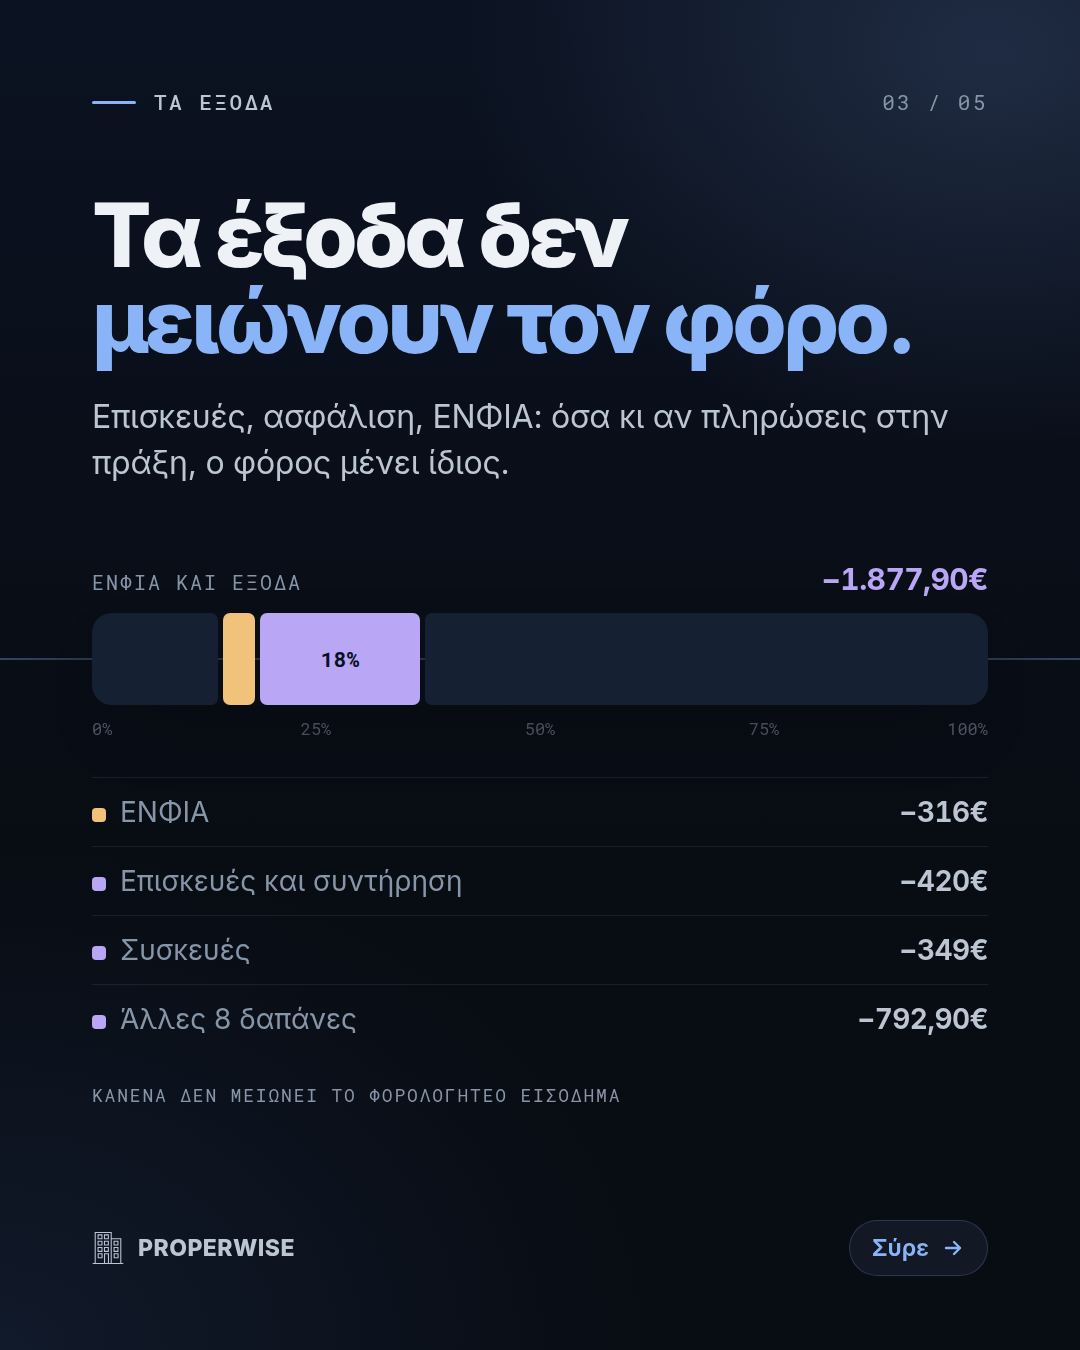
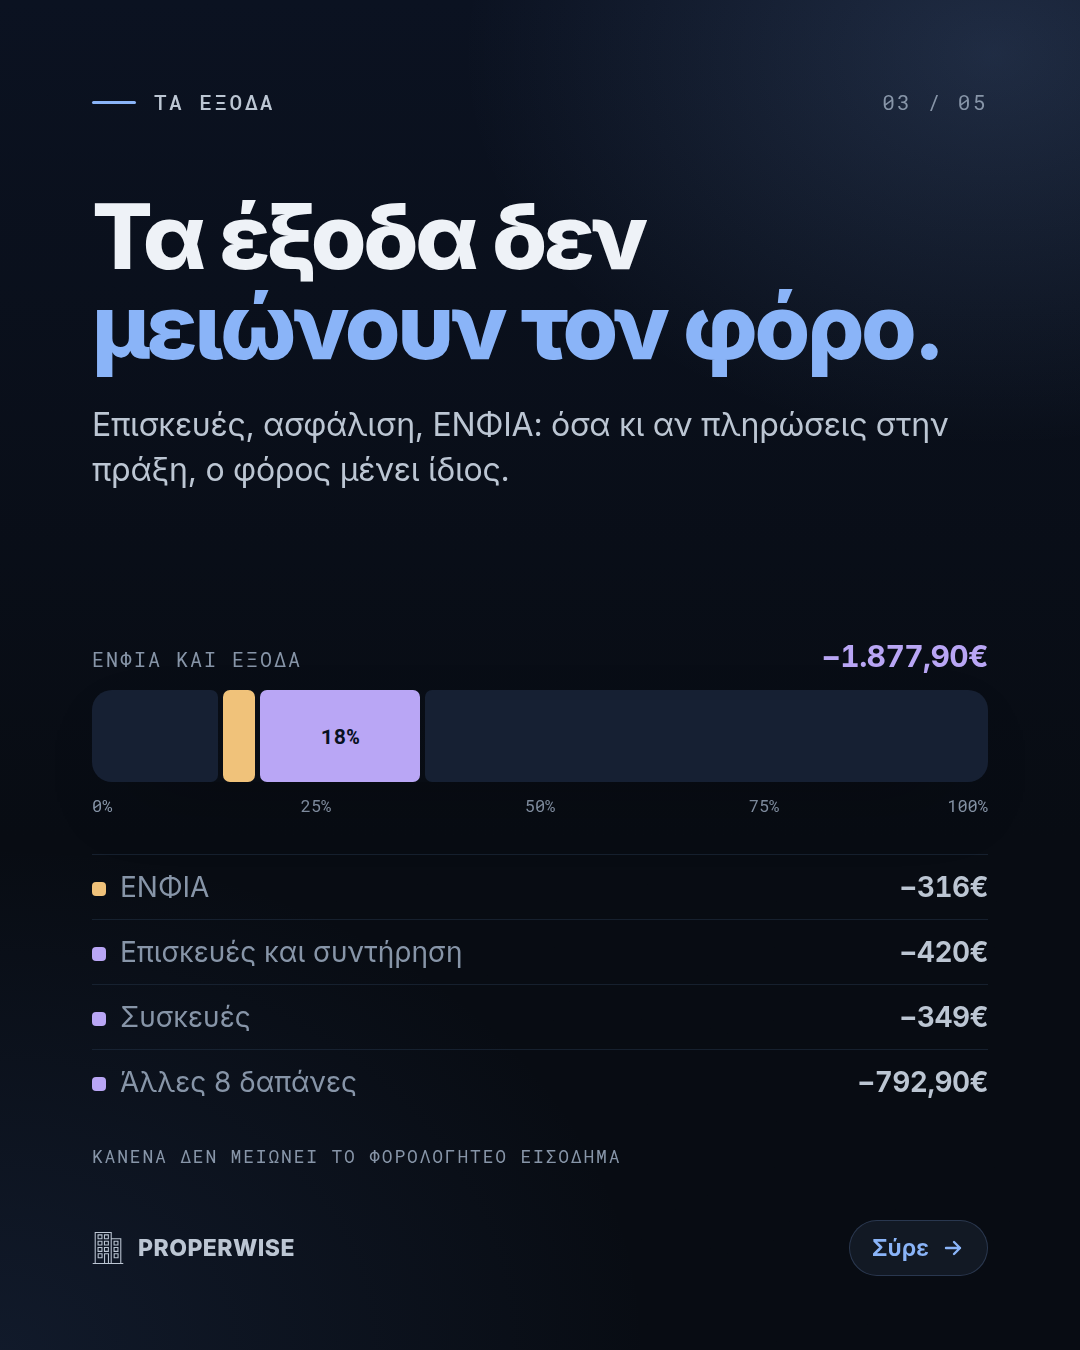
Carousel ενοικίου: η μπάρα στο ίδιο ύψος σε κάθε κάρτα, χωρίς γραμμή που ξεφεύγει
Η γραμμή «νήμα» έβγαινε από την άκρη της μπάρας ως την άκρη της εικόνας και
οι μπάρες έπεφταν σε άλλο ύψος σε κάθε κάρτα (843, 696, 659, 634), οπότε στο
σύρσιμο έσπαγε. Τώρα η κεφαλή έχει σταθερό ύψος και το main() σταματά αν η
μπάρα ξεφύγει έστω ένα pixel. Τα μεγάλα ποσά δεν πατούν πια το €, η κάρτα 1
δείχνει πού θα βρεθεί κάθε κομμάτι, η 4 λέει πού πάνε τα υπόλοιπα, η 5 έχει
τα χαρακτηριστικά σε πλέγμα 2×2.

Claude-Session: https://claude.ai/code/session_01FciDzM5oCHC6crgCfFdPE1

diff --git a/scripts/marketing/carousel.ts b/scripts/marketing/carousel.ts
@@ -15,7 +15,15 @@
 // ΜΙΑ ΜΠΑΡΑ, ΣΤΗΝ ΙΔΙΑ ΘΕΣΗ ΣΕ ΚΑΘΕ ΚΑΡΤΑ. Είναι όλο το ενοίκιο της χρονιάς.
 // Σε κάθε σύρσιμο φωτίζεται το κομμάτι που φεύγει: φόρος, ΕΝΦΙΑ και έξοδα,
 // στο τέλος αυτό που μένει. Ο θεατής βλέπει το ενοίκιο να λιγοστεύει σαν
-// κίνηση, χωρίς βίντεο.
+// κίνηση, χωρίς βίντεο. Γι' αυτό η κεφαλή κάθε κάρτας έχει σταθερό ύψος
+// (HEAD) και η μπάρα πέφτει στο ίδιο ύψος στις κάρτες 1 ως 4· το ελέγχει το
+// main() και σταματά αν ξεφύγει έστω ένα pixel.
+//
+// ΧΩΡΙΣ «ΝΗΜΑ». Η πρώτη έκδοση τραβούσε μια γραμμή από την άκρη της μπάρας ως
+// την άκρη της εικόνας, για να δένουν οι κάρτες σε πανόραμα. Οι μπάρες όμως
+// έπεφταν σε άλλο ύψος σε κάθε κάρτα, οπότε το νήμα έσπαγε στο σύρσιμο και
+// στη μία κάρτα διαβαζόταν ως γραμμή που ξέφυγε. Τη δουλειά της συνέχειας την
+// κάνει πια η ίδια η μπάρα, στην ίδια θέση.
 //
 // ΚΑΝΕΝΑ ΝΟΥΜΕΡΟ ΔΕΝ ΓΡΑΦΕΤΑΙ ΕΔΩ. Όλα από το ακίνητο επίδειξης, μέσα από την
 // incomeStatement και την κλίμακα της χρονιάς του. Η τεκμαρτή έκπτωση από το
@@ -40,6 +48,12 @@ const { chromePath } = require('../lib/chrome.mjs');
 
 const OUT = join(process.cwd(), 'docs/marketing/instagram/carousel-1');
 const W = 1080, H = 1350, N = 5;
+// Το ύψος της κεφαλής (τίτλος ή μεγάλος αριθμός) πάνω από τη μπάρα.
+const HEAD = 520;
+
+// Ο αριθμός-τίτλος με το € μικρότερο, κολλητό. Στα 160px και πάνω το ολόσωμο
+// € πατούσε το τελευταίο ψηφίο και το ποσό διαβαζόταν σαν λογότυπο.
+const big = (v: string) => esc(v).replace(/€$/, '<span class="cur">€</span>');
 
 
 // ── Η μπάρα του ενοικίου ──────────────────────────────────────────────────
@@ -57,8 +71,8 @@ function chart(lit: Lit, capL: string, capR: string, capColor = C.muted): string
   </div>`;
 }
 
-function frame(n: number, label: string, stage: string, css: string, opts: { swipe?: boolean; lineIn?: boolean; lineOut?: boolean } = {}): string {
-  const { swipe = true, lineIn = n > 1, lineOut = n < N } = opts;
+function frame(n: number, label: string, stage: string, css: string, opts: { swipe?: boolean } = {}): string {
+  const { swipe = true } = opts;
   return `<!doctype html><html lang="el"><head><meta charset="utf-8"><style>${FACES}${MONO_FACES}
   *{box-sizing:border-box;margin:0;padding:0}
   html,body{width:${W}px;height:${H}px;overflow:hidden}
@@ -69,22 +83,21 @@ function frame(n: number, label: string, stage: string, css: string, opts: { swi
     radial-gradient(900px 700px at ${n % 2 ? '0% 100%' : '100% 100%'}, #3d5fa02a, transparent 72%),
     linear-gradient(180deg, #0a1120 0%, ${C.ground} 62%)}
   .grain{position:absolute;inset:0;background-image:${GRAIN};opacity:.05;mix-blend-mode:overlay}
-  /* ΤΟ ΝΗΜΑ: περνά από την άκρη της κάρτας στην επόμενη, στο ύψος της μπάρας.
-     Σε σύρσιμο οι πέντε κάρτες διαβάζονται ως ένα πανόραμα. */
-  .thread{position:absolute;top:var(--ty,0);height:2px;left:${lineIn ? 0 : 92}px;right:${lineOut ? 0 : 92}px;
-    background:linear-gradient(90deg, ${lineIn ? `${C.accent}55` : 'transparent'}, ${C.rule} 12%, ${C.rule} 88%, ${lineOut ? `${C.accent}55` : 'transparent'})}
   .wrap{position:absolute;inset:0;padding:88px 92px 0;display:flex;flex-direction:column}
   .top{display:flex;align-items:center;justify-content:space-between;font-family:'Roboto Mono',monospace;font-size:21px;letter-spacing:.12em}
   .eyebrow{display:flex;align-items:center;gap:18px;color:${C.muted};font-weight:500}
   .eyebrow i{display:block;width:44px;height:3px;border-radius:3px;background:${C.accent}}
   .count{color:${C.faint}}
-  h1{font-weight:800;letter-spacing:-.042em;line-height:.98;text-wrap:balance;margin-top:76px}
+  .head{height:${HEAD}px;flex:none;display:flex;flex-direction:column}
+  h1{font-weight:800;letter-spacing:-.036em;line-height:1;text-wrap:balance;margin-top:76px}
+  .cur{font-size:.72em;letter-spacing:0;margin-left:.04em}
   .acc{color:${C.accent}}
   .sub{color:${C.muted};font-size:32px;line-height:1.42;letter-spacing:-.008em;text-wrap:pretty;margin-top:30px;max-width:870px}
   .num{font-variant-numeric:tabular-nums;letter-spacing:-.02em}
   .mono{font-family:'Roboto Mono',monospace;letter-spacing:.1em}
-  .chart{margin-top:64px}
-  .cap{display:flex;justify-content:space-between;align-items:baseline;margin-bottom:16px}
+  .chart{margin-top:0}
+  .cap{display:flex;justify-content:space-between;align-items:baseline;height:40px;margin-bottom:14px;overflow:hidden}
+  .cap > *{line-height:40px}
   .cap span{font-family:'Roboto Mono',monospace;font-size:20px;letter-spacing:.1em;color:${C.faint};text-transform:uppercase}
   .cap b{font-size:30px;font-weight:700}
   .track{position:relative}
@@ -92,7 +105,7 @@ function frame(n: number, label: string, stage: string, css: string, opts: { swi
     box-shadow:0 30px 80px -40px #000}
   .seg{display:flex;align-items:center;justify-content:center;border-radius:7px;font-style:normal}
   .seg em{font-style:normal;font-family:'Roboto Mono',monospace;font-size:21px;font-weight:700;color:${C.onAccent};letter-spacing:.02em}
-  .scale{position:relative;height:30px;margin-top:12px;font-family:'Roboto Mono',monospace;font-size:17px;color:${C.faint}88}
+  .scale{position:relative;height:30px;margin-top:12px;font-family:'Roboto Mono',monospace;font-size:17px;color:${C.faint}}
   .scale span{position:absolute;top:0;transform:translateX(-50%)}
   .scale span:first-child{transform:none}
   .scale span:last-child{transform:translateX(-100%)}
@@ -107,7 +120,7 @@ function frame(n: number, label: string, stage: string, css: string, opts: { swi
     background:${C.accent}14;border:1.5px solid ${C.accent}33}
   ${css}
   </style></head><body>
-  <div class="bg"></div><div class="grain"></div><div class="thread"></div>
+  <div class="bg"></div><div class="grain"></div>
   <div class="wrap">
     <div class="top"><div class="eyebrow"><i></i>${esc(label)}</div><div class="count">${String(n).padStart(2, '0')} / ${String(N).padStart(2, '0')}</div></div>
     ${stage}
@@ -124,27 +137,31 @@ function frame(n: number, label: string, stage: string, css: string, opts: { swi
 // και η απόσταση ανάμεσά τους. Η ερώτηση έρχεται στο τέλος, ως λόγος να σύρει.
 function k1(): string {
   return frame(1, `ΠΑΡΑΔΕΙΓΜΑ · ${UP(PROP_SPOKEN)}`, `
-    <div class="pair">
-      <div><div class="mono pk">ΕΣΟΔΑ · ΕΝΟΙΚΙΑ ΤΗΣ ΧΡΟΝΙΑΣ</div><div class="pv num">${esc(eur(GROSS))}</div></div>
-      <div><div class="mono pk">ΚΑΘΑΡΑ · ΜΕΤΑ ΑΠΟ ΦΟΡΟΥΣ ΚΑΙ ΕΞΟΔΑ</div><div class="pv num acc">${esc(eur(NET))}</div></div>
-    </div>
+    <div class="head"><div class="pair">
+      <div><div class="mono pk">ΕΣΟΔΑ · ΕΝΟΙΚΙΑ ΤΗΣ ΧΡΟΝΙΑΣ</div><div class="pv num">${big(eur(GROSS))}</div></div>
+      <div><div class="mono pk">ΚΑΘΑΡΑ · ΜΕΤΑ ΑΠΟ ΦΟΡΟΥΣ ΚΑΙ ΕΞΟΔΑ</div><div class="pv num acc">${big(eur(NET))}</div></div>
+    </div></div>
     ${chart('keep', 'Το ενοίκιο της χρονιάς', `${P_NET}% ΚΑΘΑΡΑ`, C.accent)}
-    <p class="sub bridge">Πού πήγαν τα <b class="num">${esc(eur(LOST))}</b>;</p>`, `
-    .pair{display:flex;flex-direction:column;gap:48px;margin-top:112px}
+    <p class="sub bridge">Πού πήγαν τα <b class="num">${esc(eur(LOST))}</b>;</p>
+    <div class="rows tease">
+      ${PARTS.filter(x => x.k !== 'net').map(x => `<div class="row"><span><i class="dot" style="background:${x.c}"></i>${esc(x.label)}</span><em class="mono">${x.k === 'tax' ? '02' : '03'} →</em></div>`).join('')}
+    </div>`, `
+    .pair{display:flex;flex-direction:column;gap:34px;margin-top:70px}
     .pk{font-size:21px;color:${C.faint}}
-    .pv{font-size:172px;font-weight:850;letter-spacing:-.055em;line-height:.94;margin-top:12px}
+    .pv{font-size:150px;font-weight:850;letter-spacing:-.03em;line-height:.94;margin-top:14px}
     .pv.acc{text-shadow:0 30px 140px ${C.accent}59}
-    .chart{margin-top:76px}
     .cap b{font-family:'Roboto Mono',monospace;font-size:20px;letter-spacing:.1em;font-weight:500}
-    .bridge{margin-top:30px;font-size:38px;color:${C.ink}}
-    .bridge b{color:${SEG.tax};font-weight:750}`);
+    .bridge{margin-top:18px;font-size:40px;font-weight:650;letter-spacing:-.015em;color:${C.ink}}
+    .bridge b{color:${SEG.tax};font-weight:750}
+    .tease{margin-top:22px}
+    .tease .row em{font-style:normal;font-size:20px;color:${C.faint}}`);
 }
 
 // ═══ 2. Ο ΦΟΡΟΣ ═════════════════════════════════════════════════════════
 function k2(): string {
   return frame(2, 'Ο ΦΟΡΟΣ', `
-    <h1 style="font-size:96px">Φόρος στα έσοδα,<br><span class="acc">όχι στα καθαρά.</span></h1>
-    <p class="sub">Για έξοδα η εφορία αφαιρεί ένα σταθερό ${esc(PRES)} του ενοικίου, όσα κι αν ξόδεψες. Στο υπόλοιπο ${esc(TAXED_SHARE)} πληρώνεις φόρο ${esc(RATE)}.</p>
+    <div class="head"><h1 style="font-size:96px">Φόρος στα έσοδα,<br><span class="acc">όχι στα καθαρά.</span></h1>
+    <p class="sub">Για έξοδα η εφορία αφαιρεί ένα σταθερό ${esc(PRES)} του ενοικίου, όσα κι αν ξόδεψες. Στο υπόλοιπο ${esc(TAXED_SHARE)} πληρώνεις φόρο ${esc(RATE)}.</p></div>
     ${chart('tax', 'Φόρος εισοδήματος', `−${eur(TAX)}`, SEG.tax)}
     <div class="rows">
       <div class="row"><span>Έσοδα από ενοίκια</span><b class="num">${esc(eur(GROSS))}</b></div>
@@ -153,7 +170,6 @@ function k2(): string {
       <div class="row hi"><span><i class="dot" style="background:${SEG.tax}"></i>Φόρος εισοδήματος ${esc(RATE)}</span><b class="num" style="color:${SEG.tax}">−${esc(eur(TAX))}</b></div>
     </div>
     <div class="mono note">ΜΑΚΡΟΧΡΟΝΙΑ ΜΙΣΘΩΣΗ · ΦΥΣΙΚΟ ΠΡΟΣΩΠΟ</div>`, `
-    .chart{margin-top:52px}
     .rows .row{padding:15px 0}
     .note{margin-top:30px;font-size:18px;color:${C.faint}}`);
 }
@@ -163,8 +179,8 @@ function k3(): string {
   const row = (label: string, v: number, color: string) =>
     `<div class="row"><span><i class="dot" style="background:${color}"></i>${esc(label)}</span><b class="num">−${esc(eur(v))}</b></div>`;
   return frame(3, 'ΤΑ ΕΞΟΔΑ', `
-    <h1 style="font-size:88px">Τα έξοδα δεν<br><span class="acc">μειώνουν τον φόρο.</span></h1>
-    <p class="sub">Επισκευές, ασφάλιση, ΕΝΦΙΑ: όσα κι αν πληρώσεις στην πράξη, ο φόρος μένει ίδιος.</p>
+    <div class="head"><h1 style="font-size:90px">Τα έξοδα δεν<br><span class="acc">μειώνουν τον φόρο.</span></h1>
+    <p class="sub">Επισκευές, ασφάλιση, ΕΝΦΙΑ: όσα κι αν πληρώσεις στην πράξη, ο φόρος μένει ίδιος.</p></div>
     ${chart('costs', 'ΕΝΦΙΑ και έξοδα', `−${eur(ENFIA + OTHER)}`, SEG.other)}
     <div class="rows">
       ${row('ΕΝΦΙΑ', ENFIA, SEG.enfia)}
@@ -172,26 +188,27 @@ function k3(): string {
       ${REST.length ? row(`Άλλες ${REST.length} δαπάνες`, REST_SUM, SEG.other) : ''}
     </div>
     <div class="mono note">ΚΑΝΕΝΑ ΔΕΝ ΜΕΙΩΝΕΙ ΤΟ ΦΟΡΟΛΟΓΗΤΕΟ ΕΙΣΟΔΗΜΑ</div>`, `
-    .chart{margin-top:76px}
-    .rows .row{padding:17px 0}
+    .rows .row{padding:15px 0}
     .note{margin-top:30px;font-size:18px;color:${C.faint}}`);
 }
 
 // ═══ 4. ΤΟ ΑΠΟΤΕΛΕΣΜΑ ═══════════════════════════════════════════════════
 function k4(): string {
   return frame(4, 'ΤΟ ΑΠΟΤΕΛΕΣΜΑ', `
-    <div class="mono res-k">ΑΠΟ ΚΑΘΕ 100€ ΕΝΟΙΚΙΟΥ</div>
-    <div class="res-line"><span class="res num">${P_NET}€</span><span class="res-t">μένουν<br>στην τσέπη.</span></div>
+    <div class="head"><div class="mono res-k">ΑΠΟ ΚΑΘΕ 100€ ΕΝΟΙΚΙΟΥ</div>
+    <div class="res-line"><span class="res num">${big(`${P_NET}€`)}</span><span class="res-t">μένουν<br>στην τσέπη.</span></div>
+    <p class="sub">Τα άλλα ${100 - P_NET}€ πάνε σε φόρο, ΕΝΦΙΑ και έξοδα.</p></div>
     ${chart('result', 'Όλο το ενοίκιο', eur(GROSS))}
     <div class="rows ledger">
       ${PARTS.map(x => `<div class="row${x.k === 'net' ? ' hi' : ''}"><span><i class="dot" style="background:${x.c}"></i>${esc(x.label)}</span><em class="mono">${x.p}%</em><b class="num"${x.k === 'net' ? ` style="color:${C.accent}"` : ''}>${x.k === 'net' ? '' : '−'}${esc(eur(x.v))}</b></div>`).join('')}
     </div>
     <div class="mono note">ΠΑΡΑΔΕΙΓΜΑ · ΦΥΣΙΚΟ ΠΡΟΣΩΠΟ · ΧΡΟΝΙΑ ${S.year}</div>`, `
-    .res-k{margin-top:92px;font-size:22px;color:${C.muted}}
-    .res-line{display:flex;align-items:flex-end;gap:34px;margin-top:10px}
-    .res{font-size:250px;font-weight:850;letter-spacing:-.06em;line-height:.9;color:${C.accent};text-shadow:0 30px 140px ${C.accent}59}
+    .res-k{margin-top:76px;font-size:22px;color:${C.muted}}
+    .res-line{display:flex;align-items:flex-end;gap:34px;margin-top:14px}
+    .res{font-size:250px;font-weight:850;letter-spacing:-.035em;line-height:.9;color:${C.accent};text-shadow:0 30px 140px ${C.accent}59}
+    .res .cur{margin-left:.07em}
     .res-t{font-size:46px;font-weight:700;letter-spacing:-.02em;line-height:1.1;padding-bottom:26px}
-    .ledger{margin-top:14px}
+    .ledger{margin-top:30px}
     .ledger .row{display:grid;grid-template-columns:1fr 110px 250px;padding:15px 0}
     .ledger .row em{font-style:normal;font-size:21px;color:${C.faint};text-align:right}
     .ledger .row b{text-align:right}
@@ -218,11 +235,11 @@ function k5(): string {
         ${tile('ΣΟΥ ΜΕΝΟΥΝ', eur(NET), C.accent, true)}
       </div>
       <div class="app-bar">${PARTS.map(x => `<i style="flex:${x.v};background:${x.c}"></i>`).join('')}</div>
-      <div class="feats">${feats.map(f => `<span>${esc(f)}</span>`).join('')}</div>
+      <div class="feats">${feats.map(f => `<span>${ico.check(C.accent, 20)}${esc(f)}</span>`).join('')}</div>
     </div>
     <div class="cta">
       <div class="pill">Δωρεάν ${esc(FREE_WORDS)}</div>
-      <div class="mono cta-r">PROPERWISE.GR · ΣΥΝΔΕΣΜΟΣ ΣΤΟ BIO</div>
+      <div class="cta-r"><b>properwise.gr</b><span class="mono">ΣΥΝΔΕΣΜΟΣ ΣΤΟ BIO</span></div>
     </div>`, `
     .app{margin-top:48px;border-radius:36px;padding:30px 32px 28px;background:linear-gradient(180deg, ${C.lift}f5, ${C.panel}f5);
       border:1.5px solid ${C.rule};box-shadow:0 1px 0 #ffffff0d inset, 0 60px 140px -50px #000}
@@ -237,12 +254,14 @@ function k5(): string {
     .tile.big{border-color:${C.accent}55;background:${C.accent}12}
     .app-bar{display:flex;gap:4px;height:18px;border-radius:9px;overflow:hidden;margin-top:22px}
     .app-bar i{display:block;border-radius:4px}
-    .feats{display:flex;flex-wrap:wrap;gap:10px;margin-top:22px}
-    .feats span{font-size:21px;color:${C.muted};padding:9px 16px;border-radius:999px;border:1.5px solid ${C.rule}}
+    .feats{display:grid;grid-template-columns:1fr 1fr;gap:10px;margin-top:22px}
+    .feats span{display:flex;align-items:center;gap:10px;font-size:21px;color:${C.muted};padding:11px 16px;border-radius:14px;border:1.5px solid ${C.rule}}
     .cta{margin-top:40px;display:flex;align-items:center;gap:26px}
     .pill{padding:22px 34px;border-radius:999px;background:${C.accent};color:${C.onAccent};font-size:30px;font-weight:800;letter-spacing:-.01em;
       box-shadow:0 30px 80px -26px ${C.accent}}
-    .cta-r{font-size:18px;color:${C.faint};line-height:1.5}`, { swipe: false });
+    .cta-r{display:flex;flex-direction:column;gap:6px}
+    .cta-r b{font-size:26px;font-weight:700;color:${C.ink};letter-spacing:-.01em}
+    .cta-r span{font-size:17px;color:${C.faint}}`, { swipe: false });
 }
 
 const CARDS = [
@@ -282,19 +301,26 @@ async function main() {
   mkdirSync(OUT, { recursive: true });
   const browser = await chromium.launch({ executablePath: chromePath(), args: ['--no-sandbox'] });
   try {
+    const barTops = new Set<number>();
     for (const [i, c] of CARDS.entries()) {
       const page = await browser.newPage({ viewport: { width: W, height: H }, deviceScaleFactor: 1 });
       await page.setContent(c.build(), { waitUntil: 'load' });
       await page.evaluate(() => document.fonts.ready);
-      // Το νήμα στο κέντρο της μπάρας, όπου κι αν βρεθεί αυτή σε κάθε κάρτα.
-      // Μετριέται μετά τις γραμματοσειρές: πριν από αυτές οι γραμμές είναι
-      // κοντύτερες και η μπάρα κάθεται ψηλότερα από εκεί που θα φωτογραφηθεί.
-      await page.evaluate(() => {
-        const t = document.querySelector('.track, .app-bar');
-        if (!t) { document.querySelector('.thread')?.remove(); return; }
-        const r = t.getBoundingClientRect();
-        document.documentElement.style.setProperty('--ty', `${r.top + r.height / 2 - 1}px`);
+      // Η ΜΠΑΡΑ ΣΤΟ ΙΔΙΟ ΥΨΟΣ. Μετριέται μετά τις γραμματοσειρές· η κεφαλή
+      // δεν επιτρέπεται να κρύβει κείμενο πίσω από το σταθερό της ύψος.
+      const geo = await page.evaluate(() => {
+        const head = document.querySelector('.head') as HTMLElement | null;
+        const track = document.querySelector('.track');
+        return {
+          headOver: head ? head.scrollHeight - head.clientHeight : 0,
+          barTop: track ? Math.round(track.getBoundingClientRect().top) : null,
+        };
       });
+      if (geo.headOver > 0) throw new Error(`κάρτα ${i + 1}: η κεφαλή ξεπερνά τα ${HEAD}px κατά ${geo.headOver}px`);
+      if (geo.barTop != null) {
+        barTops.add(geo.barTop);
+        if (barTops.size > 1) throw new Error(`κάρτα ${i + 1}: η μπάρα πέφτει σε άλλο ύψος (${[...barTops].join(', ')})`);
+      }
       // Το πλέγμα του προφίλ κόβει τα πλάγια (3:4). Τίποτα κοντά στις άκρες,
       // τίποτα έξω από το κάδρο, καμία επικάλυψη κειμένου με τη μπάρα.
       const bad = await page.evaluate(() => {
